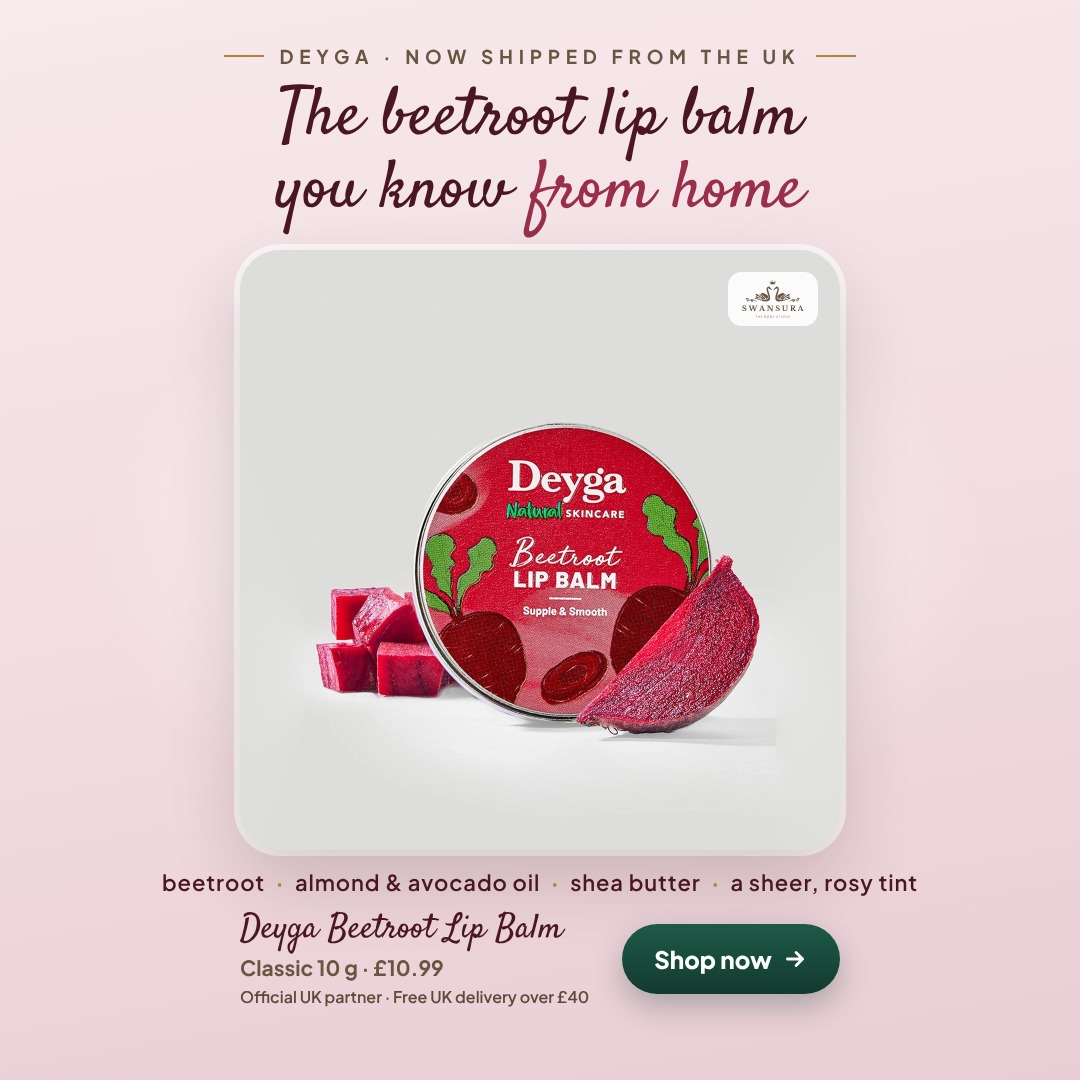
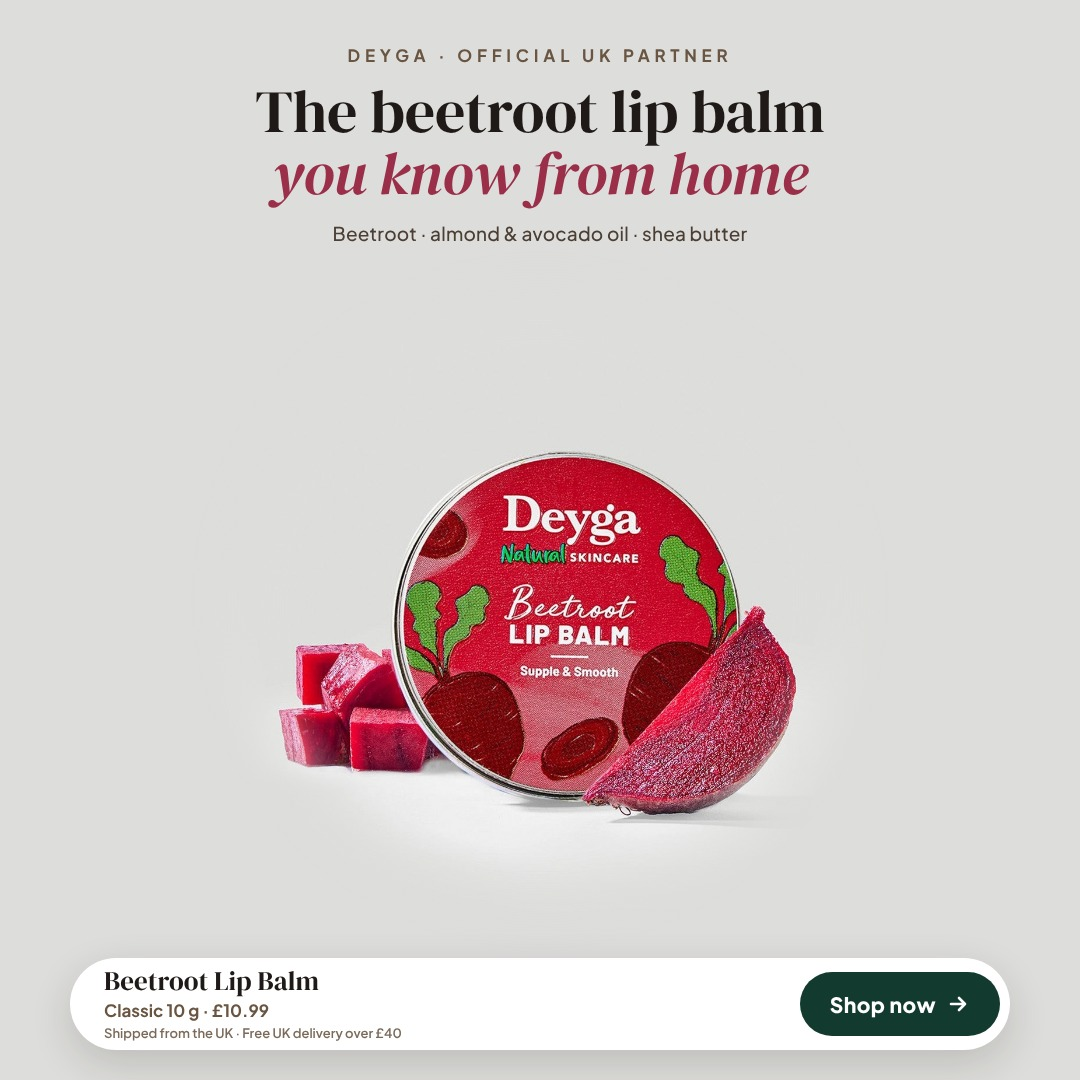
Ads: image ads redesigned (DM Serif Display, full-bleed product photo, price bar)
Claude-Session: https://claude.ai/code/session_01FHVN4n8tpWTTcEhNkMK5Am

diff --git a/docs/ads/creatives_2026-11-12/images/prod.js b/docs/ads/creatives_2026-11-12/images/prod.js
@@ -1,37 +1,30 @@
 const {chromium}=require('playwright');const fs=require('fs');
 const b64=(f,t)=>`data:${t};base64,`+fs.readFileSync(f).toString('base64');
 const ADS={
- lip:{img:'lip.jpg',font:'SAT',w:400,hs:82,bg:'linear-gradient(170deg,#F7E9EC 0%,#F1DCE1 55%,#E9CDD4 100%)',ink:'#4A1626',acc:'#9B2F4A',eb:'DEYGA · NOW SHIPPED FROM THE UK',h:'The beetroot lip balm<br>you know <span class="s">from home</span>',line:['beetroot','almond &amp; avocado oil','shea butter','a sheer, rosy tint'],name:'Deyga Beetroot Lip Balm',price:'Classic 10 g · £10.99'},
- milk:{img:'milk.jpg',font:'DAN',w:600,hs:88,bg:'linear-gradient(170deg,#FAF6EE 0%,#F4ECDD 60%,#ECE0CB 100%)',ink:'#3E2F22',acc:'#B5843A',eb:'VILVAH · NOW SHIPPED FROM THE UK',h:'Milk Drops,<br>your daily <span class="s">milk serum</span>',line:['rice milk extract','hyaluronic acid','fragrance-free'],name:'Vilvah Milk Drops Serum',price:'20 ml £21.99 · 40 ml £30.99'},
- hair:{img:'hair.jpg',font:'KAU',w:400,hs:76,bg:'linear-gradient(170deg,#F0F4E8 0%,#E4ECD8 60%,#D7E3C8 100%)',ink:'#1F3A1C',acc:'#5E8A2C',eb:'DEYGA HAIR CARE KIT · SHIPPED FROM THE UK',h:'Your Sunday <span class="s">champi</span>,<br>in three easy steps',line:['1 · pre-wash oil','2 · rice water shampoo','3 · soy milk conditioner'],name:'Deyga Hair Care Kit',price:'50 ml £18.99 · 220 ml £36.99'},
+ lip:{img:'lip.jpg',t:'#dddddb',b:'#dddddb',acc:'#9B2F4A',eb:'Deyga · Official UK partner',h:'The beetroot lip balm<br><i>you know from home</i>',sub:'Beetroot · almond &amp; avocado oil · shea butter',name:'Beetroot Lip Balm',price:'Classic 10 g · £10.99'},
+ milk:{img:'milk.jpg',t:'#eff0ec',b:'#d1d2cb',acc:'#A8742E',eb:'Vilvah · Official UK partner',h:'Milk Drops,<br><i>your daily milk serum</i>',sub:'Rice milk extract · hyaluronic acid · fragrance-free',name:'Milk Drops Serum',price:'20 ml £21.99 · 40 ml £30.99'},
+ hair:{img:'hair.jpg',t:'#e6e6e5',b:'#eceae8',acc:'#3F6B2A',eb:'Deyga · Official UK partner',h:'Your Sunday <i>champi</i>,<br>in three easy steps',sub:'Pre-wash oil · rice water shampoo · soy milk conditioner',name:'Hair Care Kit',full:true,price:'50 ml £18.99 · 220 ml £36.99'},
 };
-const SZ={'4x5':{W:1080,H:1350,top:62,ph:780,pt:318,gap:26},'9x16':{W:1080,H:1920,top:240,ph:900,pt:560,gap:34},'1x1':{W:1080,H:1080,top:44,ph:600,pt:250,gap:18}};
-const html=(a,z,zn)=>`<html><head><meta charset="utf-8"><style>
-@font-face{font-family:PJS;src:url(pjs.woff2)}@font-face{font-family:SAT;src:url(Satisfy-Regular.ttf)}@font-face{font-family:DAN;src:url(dancing.ttf);font-weight:400 700}@font-face{font-family:KAU;src:url(kaushan.ttf)}
-*{margin:0;box-sizing:border-box}body{width:${z.W}px;height:${z.H}px;overflow:hidden;position:relative;font-family:PJS;background:${a.bg}}
-body:before{content:'';position:absolute;inset:0;background:radial-gradient(60% 40% at 50% ${Math.round((z.pt+z.ph/2)/z.H*100)}%,rgba(255,255,255,.75),transparent 70%)}
-.top{position:absolute;left:0;right:0;top:${z.top}px;text-align:center;padding:0 60px}
-.eb{font-weight:700;font-size:${zn=='1x1'?19:21}px;letter-spacing:.3em;color:#695541;display:inline-flex;align-items:center;gap:16px}
-.eb:before,.eb:after{content:'';width:40px;height:1.5px;background:#B5843A}
-.h{font-family:${a.font};font-weight:${a.w};font-size:${zn=='1x1'?a.hs*0.82:a.hs}px;line-height:1.08;color:${a.ink};margin-top:14px}
-.s{color:${a.acc}}
-.ph{position:absolute;left:${(z.W-z.ph)/2}px;top:${z.pt}px;width:${z.ph}px;height:${z.ph}px;border-radius:40px;overflow:hidden;box-shadow:0 30px 70px rgba(40,30,20,.18),0 0 0 6px rgba(255,255,255,.7)}
-.ph img{width:100%;height:100%;object-fit:cover}
-.line{position:absolute;left:0;right:0;top:${z.pt+z.ph+z.gap}px;text-align:center;color:${a.ink};font-weight:600;font-size:${zn=='1x1'?22:26}px;letter-spacing:.04em}
-.line b{color:#B5843A;margin:0 10px}
-.row{position:absolute;left:${(z.W-z.ph)/2}px;right:${(z.W-z.ph)/2}px;top:${z.pt+z.ph+z.gap+(zn=='1x1'?44:56)}px;display:flex;align-items:center;justify-content:space-between;gap:20px}
-.nm{font-family:${a.font};font-weight:${a.w};font-size:${zn=='1x1'?34:40}px;color:${a.ink};line-height:1.05}.pr{font-weight:700;font-size:${zn=='1x1'?21:25}px;color:#695541;margin-top:6px}
-.fine{font-size:${zn=='1x1'?16:18}px;color:#5C4A39;margin-top:5px;font-weight:600}
-.btn{flex:none;height:${zn=='1x1'?70:84}px;padding:0 32px;border-radius:999px;background:linear-gradient(180deg,#1E5A47,#133A2F);color:#fff;font-weight:800;font-size:${zn=='1x1'?24:28}px;display:flex;align-items:center;gap:10px;box-shadow:0 12px 30px rgba(19,58,47,.3)}
-.logo{position:absolute;right:${(z.W-z.ph)/2+22}px;top:${z.pt+22}px;height:54px;padding:8px 14px;background:rgba(255,255,255,.88);border-radius:14px}.logo img{height:38px}
+const SZ={'4x5':{W:1080,H:1350,top:64,hs:74,pw:940,pt:300,bar:1218},'9x16':{W:1080,H:1920,top:250,hs:84,pw:1080,pt:540,bar:1610},'1x1':{W:1080,H:1080,top:44,hs:60,pw:700,pt:250,bar:958}};
+const html=(a,z0,zn)=>{const z={...z0,pw:a.full&&zn=='9x16'?z0.W:z0.pw*(a.full?0.98:1),pt:z0.pt};return `<html><head><meta charset="utf-8"><style>
+@font-face{font-family:PJS;src:url(pjs.woff2)}@font-face{font-family:DMS;src:url(dmserif.ttf)}@font-face{font-family:DMS;src:url(dmserif-i.ttf);font-style:italic}
+*{margin:0;box-sizing:border-box}body{width:${z.W}px;height:${z.H}px;overflow:hidden;position:relative;font-family:PJS;background:linear-gradient(${a.t},${a.t} ${z.pt}px,${a.b})}
+.ph{position:absolute;left:${(z.W-z.pw)/2}px;top:${z.pt}px;width:${z.pw}px;-webkit-mask-image:${a.full?'linear-gradient(transparent,#000 110px,#000 calc(100% - 90px),transparent),linear-gradient(90deg,transparent,#000 28px,#000 calc(100% - 28px),transparent)':'radial-gradient(closest-side,#000 72%,transparent 100%)'};-webkit-mask-composite:source-in;mask-composite:intersect}
+.top{position:absolute;left:0;right:0;top:${z.top}px;text-align:center;padding:0 70px}
+.eb{font-weight:700;font-size:${zn=='1x1'?17:20}px;letter-spacing:.28em;text-transform:uppercase;color:#695541}
+.h{font-family:DMS;font-size:${z.hs}px;line-height:1.04;color:#1F1A17;margin-top:14px;letter-spacing:-.005em}
+.h i{color:${a.acc}}
+.sub{font-weight:500;font-size:${zn=='1x1'?19:23}px;color:#4B3E33;margin-top:16px;letter-spacing:.01em}
+.bar{position:absolute;left:${zn=='1x1'?70:60}px;right:${zn=='1x1'?70:60}px;top:${z.bar}px;height:${zn=='1x1'?92:108}px;background:#fff;border-radius:999px;display:flex;align-items:center;justify-content:space-between;padding:0 10px 0 34px;box-shadow:0 14px 40px rgba(30,25,20,.16)}
+.nm{font-family:DMS;font-size:${zn=='1x1'?27:32}px;color:#1F1A17;line-height:1}.pr{font-weight:700;font-size:${zn=='1x1'?17:19}px;color:#695541;margin-top:5px}
+.fine{font-size:${zn=='1x1'?13:15}px;font-weight:600;color:#7A6A5A;margin-top:4px}.btn{height:${zn=='1x1'?64:76}px;padding:0 30px;border-radius:999px;background:#133A2F;color:#fff;font-weight:800;font-size:${zn=='1x1'?21:24}px;display:flex;align-items:center;gap:10px;letter-spacing:.02em}
+.foot{position:absolute;left:0;right:0;top:${z.bar+(zn=='1x1'?92:108)}px;text-align:center;font-size:${zn=='1x1'?15:18}px;font-weight:600;color:#5C4A39;letter-spacing:.04em}
 </style></head><body>
-<div class="top"><div class="eb">${a.eb}</div><div class="h">${a.h}</div></div>
-<div class="ph"><img src="${b64(a.img,'image/jpeg')}"></div>
-<div class="logo"><img src="${b64('logob.svg','image/svg+xml')}"></div>
-<div class="line">${a.line.join('<b>·</b>')}</div>
-<div class="row"><div><div class="nm">${a.name}</div><div class="pr">${a.price}</div><div class="fine">Official UK partner · Free UK delivery over £40</div></div>
-<div class="btn">Shop now <svg width="26" height="26" viewBox="0 0 24 24" fill="none" stroke="#fff" stroke-width="2.6" stroke-linecap="round" stroke-linejoin="round"><path d="M5 12h14M13 6l6 6-6 6"/></svg></div></div>
-</body></html>`;
+<img class="ph" src="${b64(a.img,'image/jpeg')}">
+<div class="top"><div class="eb">${a.eb}</div><div class="h">${a.h}</div><div class="sub">${a.sub}</div></div>
+<div class="bar"><div><div class="nm">${a.name}</div><div class="pr">${a.price}</div><div class="fine">Shipped from the UK · Free UK delivery over £40</div></div><div class="btn">Shop now <svg width="24" height="24" viewBox="0 0 24 24" fill="none" stroke="#fff" stroke-width="2.6" stroke-linecap="round" stroke-linejoin="round"><path d="M5 12h14M13 6l6 6-6 6"/></svg></div></div>
+
+</body></html>`};
 (async()=>{const br=await chromium.launch();
 for(const [k,a] of Object.entries(ADS))for(const [zn,z] of Object.entries(SZ)){const p=await br.newPage({viewport:{width:z.W,height:z.H}});fs.writeFileSync('t.html',html(a,z,zn));await p.goto('file://'+process.cwd()+'/t.html');await p.evaluate(()=>document.fonts.ready);await p.waitForTimeout(250);await p.screenshot({path:`${k}_${zn}.png`});await p.close();}
 await br.close()})();
